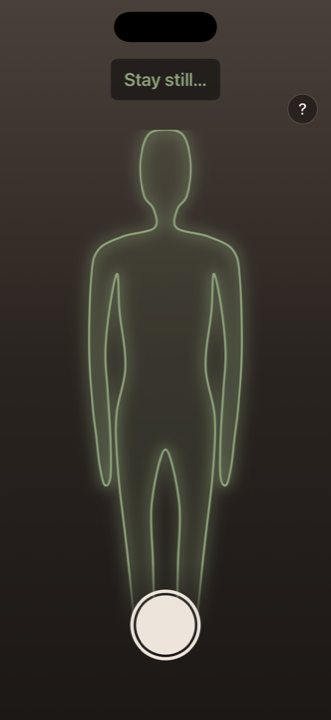
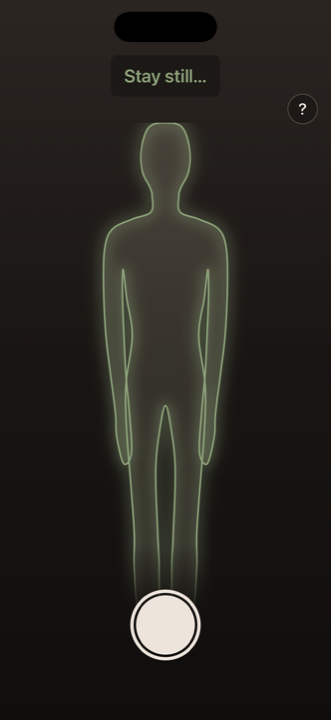
fix(camera): anatomical silhouette and dimmed cut-out for the framing guide
The guide outline is now drawn in head units with figure-drawing
proportions (8-head male, cut at mid-shin), so it reads as a person instead
of a balloon figure. Everything outside the figure is dimmed a little so the
user sees themselves inside the shape; the stroke is thinner. Captures
updated.

Changed region(s): [[0.0, 0.0, 1.0, 0.8556]]

diff --git a/guaperrimo.ai/Views/BodyGuide.swift b/guaperrimo.ai/Views/BodyGuide.swift
@@ -17,41 +17,48 @@ import SwiftUI
 /// the bottom edge is meant to be faded out by the caller.
 struct BodyGuideShape: Shape {
     /// Right half of the outline, from the top of the head down to the crotch,
-    /// as (x from centre, y from top) fractions of the bounding rect.
+    /// in head units (x from the centre line, y from the top). A standing man
+    /// is ~8 heads tall; the guide stops at mid-shin, 7 heads down, and the
+    /// bounding rect is 3.15 heads wide (aspect 0.45).
+    private static let heads: CGFloat = 7
+    private static let headsWide: CGFloat = 3.15
     private static let rightHalf: [(CGFloat, CGFloat)] = [
-        (0.000, 0.000),  // top of head
-        (0.080, 0.012),
-        (0.112, 0.070),  // side of head
-        (0.095, 0.130),
-        (0.052, 0.158),  // jaw to neck
-        (0.050, 0.195),  // neck base
-        (0.190, 0.212),  // trapezius
-        (0.300, 0.240),  // shoulder
-        (0.330, 0.300),  // deltoid
-        (0.338, 0.440),  // elbow
-        (0.322, 0.550),
-        (0.306, 0.610),  // wrist
-        (0.292, 0.665),  // hand
-        (0.270, 0.705),  // fingertips
-        (0.244, 0.690),
-        (0.244, 0.612),  // wrist, inner
-        (0.256, 0.520),
-        (0.266, 0.440),  // elbow, inner
-        (0.246, 0.350),
-        (0.214, 0.286),  // armpit
-        (0.204, 0.360),
-        (0.178, 0.470),  // waist
-        (0.218, 0.570),  // hip
-        (0.210, 0.680),
-        (0.180, 0.800),
-        (0.165, 0.860),  // knee
-        (0.145, 0.950),
-        (0.135, 1.000),  // shin, outer bottom
-        (0.045, 1.000),  // shin, inner bottom
-        (0.050, 0.950),
-        (0.055, 0.860),  // knee, inner
-        (0.060, 0.740),
-        (0.000, 0.635),  // crotch
+        (0.00, 0.00),  // top of head
+        (0.24, 0.07),
+        (0.35, 0.40),  // temple
+        (0.33, 0.70),  // cheek
+        (0.22, 0.93),  // jaw
+        (0.19, 1.06),  // chin
+        (0.21, 1.28),  // neck base
+        (0.48, 1.38),  // trapezius
+        (0.76, 1.52),  // shoulder
+        (0.87, 1.78),  // deltoid
+        (0.89, 2.30),  // upper arm
+        (0.86, 3.00),  // elbow
+        (0.79, 3.60),  // forearm
+        (0.72, 4.15),  // wrist
+        (0.70, 4.50),  // hand
+        (0.60, 4.88),  // fingertips
+        (0.49, 4.72),  // hand, inner
+        (0.52, 4.15),  // wrist, inner
+        (0.57, 3.60),  // forearm, inner
+        (0.60, 3.00),  // elbow, inner
+        (0.62, 2.45),  // upper arm, inner
+        (0.61, 2.10),  // armpit
+        (0.56, 2.50),  // ribs
+        (0.48, 3.05),  // waist
+        (0.57, 3.75),  // hip
+        (0.56, 4.40),  // thigh
+        (0.49, 5.30),
+        (0.45, 5.90),  // knee
+        (0.45, 6.40),  // calf
+        (0.38, 7.00),  // shin, outer bottom
+        (0.12, 7.00),  // shin, inner bottom
+        (0.09, 6.40),  // calf, inner
+        (0.11, 5.90),  // knee, inner
+        (0.14, 5.00),  // inner thigh
+        (0.09, 4.45),
+        (0.00, 4.05),  // crotch
     ]
 
     func path(in rect: CGRect) -> Path {
@@ -59,7 +66,7 @@ struct BodyGuideShape: Shape {
         // Closed polygon: right side top → bottom, then the mirrored left side bottom → top.
         let left = right.dropFirst().dropLast().reversed().map { (-$0.0, $0.1) }
         let points = (right + left).map { p in
-            CGPoint(x: rect.midX + p.0 * rect.width, y: rect.minY + p.1 * rect.height)
+            CGPoint(x: rect.midX + p.0 / Self.headsWide * rect.width, y: rect.minY + p.1 / Self.heads * rect.height)
         }
         return Path.catmullRom(closed: points)
     }
@@ -113,10 +120,10 @@ struct BodyGuideFigure: View {
 
     private var fillOpacity: Double {
         switch look {
-        case .searching: 0.06
-        case .adjusting: 0.04
-        case .aligned: 0.14
-        case .capturing: 0.18
+        case .searching: 0.05
+        case .adjusting: 0.03
+        case .aligned: 0.12
+        case .capturing: 0.16
         }
     }
 
@@ -128,7 +135,7 @@ struct BodyGuideFigure: View {
                 .stroke(ink.opacity(look == .aligned || look == .capturing ? 0.45 : 0.15), lineWidth: 10)
                 .blur(radius: 8)
             BodyGuideShape()
-                .stroke(ink.opacity(strokeOpacity), style: StrokeStyle(lineWidth: 2.5, lineCap: .round, lineJoin: .round))
+                .stroke(ink.opacity(strokeOpacity), style: StrokeStyle(lineWidth: 2, lineCap: .round, lineJoin: .round))
         }
         .mask(
             LinearGradient(
@@ -200,6 +207,24 @@ struct CameraGuideLayer: View {
             let centerY = screenH - bottomMargin - figureH / 2
 
             ZStack {
+                // Everything outside the figure is dimmed a little, so the person reads as "inside" the shape.
+                Color.black.opacity(look == .aligned || look == .capturing ? 0.42 : 0.34)
+                    .mask(
+                        ZStack {
+                            Rectangle()
+                            BodyGuideShape()
+                                .fill(LinearGradient(
+                                    stops: [.init(color: .white, location: 0), .init(color: .white, location: 0.86), .init(color: .clear, location: 1)],
+                                    startPoint: .top, endPoint: .bottom
+                                ))
+                                .frame(width: figureW, height: figureH)
+                                .position(x: screenW / 2, y: centerY)
+                                .blendMode(.destinationOut)
+                        }
+                        .compositingGroup()
+                    )
+                    .animation(.easeInOut(duration: 0.35), value: look == .aligned || look == .capturing)
+
                 BodyGuideFigure(look: look)
                     .frame(width: figureW, height: figureH)
                     .position(x: screenW / 2, y: centerY)
